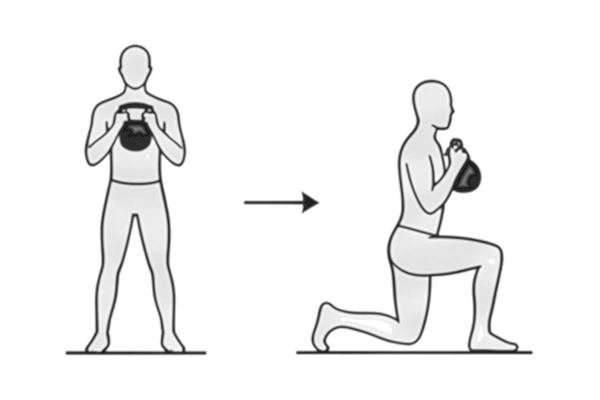
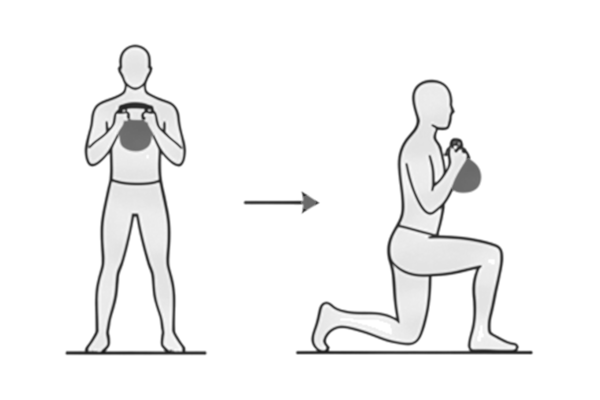
Kettlebells en gris liso oscuro, sin reborde ni artefactos
- La bola entera, borde incluido, pasa a un gris oscuro uniforme; el borde conserva su
  suavizado original, así que no quedan anillos, puntos claros ni escalones.
- Las bolas que ya venían rellenas en el dibujo original (goblet, zancada, thruster) también se
  tiñen enteras, sombreado incluido.
- El tono se puede probar sin editar el script: KB_ALPHA=… node tools/ink.js images salida

Changed region(s): [[0.18, 0.3, 0.27, 0.39], [0.75, 0.39, 0.81, 0.48], [0.48, 0.48, 0.54, 0.54]]

diff --git a/tools/ink.js b/tools/ink.js
@@ -127,7 +127,8 @@ function fillKettlebells(rgba, w, h, seeds) {
       rgba[p * 4 + 3] = 255;
       for (const q of [p - 1, p + 1, p - w, p + w]) {
         const qx = q % w, qy = (q / w) | 0;
-        if (q < 0 || q >= w * h || Math.abs(qx - x) > 1 || seen[q] || al(q) > 140) continue;
+        if (q < 0 || q >= w * h || Math.abs(qx - x) > 1 || seen[q]) continue;
+        if (al(q) > 140) { rgba[q * 4 + 3] = 255; continue; }   // the outline's inner soft edge joins the fill, no light seam
         if (Math.hypot(qx - sx, qy - sy) > maxR) continue;   // never leak past the ball
         seen[q] = 1; stack.push(q);
       }
@@ -136,13 +137,13 @@ function fillKettlebells(rgba, w, h, seeds) {
   return rgba;
 }
 
-// The inside of every solid kettlebell fades from full ink at its rim to a dark grey (KB_ALPHA) at its centre.
-// Lines are at most ~5 px wide, so any solid pixel more than RIM px from the edge of the solid area is a kettlebell.
-const KB_ALPHA = 140, RIM = 2, FADE = 7;
-function softenSolids(rgba, w, h) {
-  const solid = (p) => rgba[p * 4 + 3] > 230, INF = 1e6, d = new Float32Array(w * h);
-  for (let p = 0; p < w * h; p++) d[p] = solid(p) ? INF : 0;
-  for (let y = 0; y < h; y++) for (let x = 0; x < w; x++) {          // chamfer distance to the nearest non-solid pixel
+// Every solid kettlebell is lightened to a flat dark grey (KB_ALPHA of full ink), edge included.
+// Its core is where the solid ink lies more than 3.5 px from any edge (lines are never that thick). Everything within
+// 5 px of the core is scaled to KB_ALPHA, fading back to full ink by 6.5 px, so the ball's own smooth edge is kept
+// as it was, only lighter: no ring, no steps. Try other greys with KB_ALPHA=… node tools/ink.js images out
+const KB_ALPHA = +(process.env.KB_ALPHA || 175);
+function chamfer(d, w, h) {   // in place: distance to the nearest zero
+  for (let y = 0; y < h; y++) for (let x = 0; x < w; x++) {
     const p = y * w + x; if (!d[p]) continue; let v = d[p];
     if (x > 0) v = Math.min(v, d[p - 1] + 1); if (y > 0) { v = Math.min(v, d[p - w] + 1); if (x > 0) v = Math.min(v, d[p - w - 1] + 1.414); if (x < w - 1) v = Math.min(v, d[p - w + 1] + 1.414); }
     d[p] = v;
@@ -152,15 +153,19 @@ function softenSolids(rgba, w, h) {
     if (x < w - 1) v = Math.min(v, d[p + 1] + 1); if (y < h - 1) { v = Math.min(v, d[p + w] + 1); if (x < w - 1) v = Math.min(v, d[p + w + 1] + 1.414); if (x > 0) v = Math.min(v, d[p + w - 1] + 1.414); }
     d[p] = v;
   }
-  // a pixel only belongs to a kettlebell if the solid area reaches more than 3 px deep somewhere near it
-  const deep = new Uint8Array(w * h);
-  for (let y = 0; y < h; y++) for (let x = 0; x < w; x++) if (d[y * w + x] > 3) {
-    for (let dy = -3; dy <= 3; dy++) for (let dx = -3; dx <= 3; dx++) { const yy = y + dy, xx = x + dx; if (yy >= 0 && yy < h && xx >= 0 && xx < w) deep[yy * w + xx] = 1; }
-  }
+  return d;
+}
+function softenSolids(rgba, w, h) {
+  const INF = 1e6, edge = new Float32Array(w * h);
+  for (let p = 0; p < w * h; p++) edge[p] = rgba[p * 4 + 3] > 200 ? INF : 0;
+  chamfer(edge, w, h);                                   // depth inside the solid ink
+  const core = new Float32Array(w * h);
+  for (let p = 0; p < w * h; p++) core[p] = edge[p] > 3.5 ? 0 : INF;
+  chamfer(core, w, h);                                   // distance to the nearest ball core
+  const k = KB_ALPHA / 255;
   for (let p = 0; p < w * h; p++) {
-    if (!deep[p] || d[p] <= RIM) continue;
-    const t = Math.min(1, (d[p] - RIM) / FADE), e = t * t * (3 - 2 * t);   // smooth fade from the rim inward
-    rgba[p * 4 + 3] = Math.round(255 - (255 - KB_ALPHA) * e);
+    const m = Math.max(0, Math.min(1, (6.5 - core[p]) / 1.5));
+    if (m > 0) rgba[p * 4 + 3] = Math.round(rgba[p * 4 + 3] * (1 - m * (1 - k)));
   }
   return rgba;
 }
@@ -223,7 +228,8 @@ const [srcDir, outDir] = process.argv.slice(2);
 const figFile = path.join(__dirname, "figures.json");
 const bodies = fs.existsSync(figFile) ? JSON.parse(fs.readFileSync(figFile, "utf8")) : {};
 fs.mkdirSync(outDir, { recursive: true });
-for (const f of fs.readdirSync(srcDir).filter((f) => f.endsWith(".png"))) {
+const only = process.env.ONLY ? process.env.ONLY.split(",").map((n) => n + ".png") : null;
+for (const f of fs.readdirSync(srcDir).filter((f) => f.endsWith(".png") && (!only || only.includes(f)))) {
   const img = readPng(path.join(srcDir, f));
   let rgba = ink(img);
   if (KB[f.slice(0, -4)]) rgba = fillKettlebells(rgba, img.width, img.height, KB[f.slice(0, -4)]);
